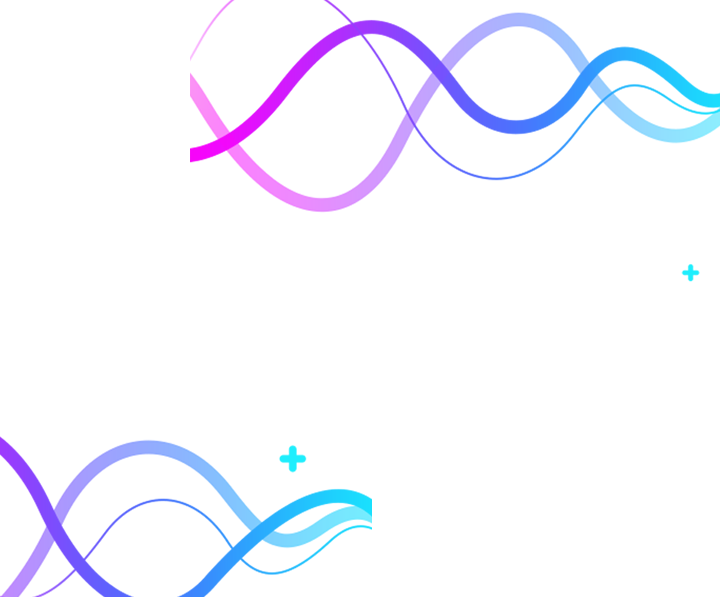
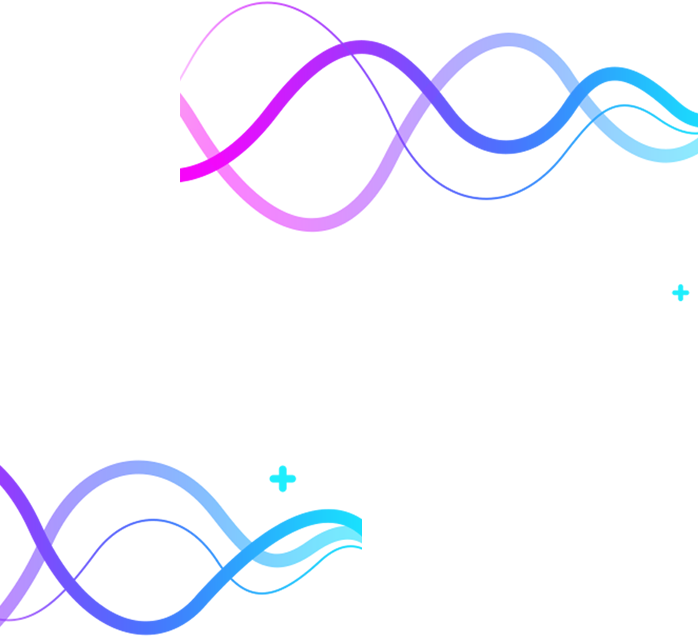
sdkj

diff --git a/css/index.css b/css/index.css
@@ -61,17 +61,18 @@ header p{
 .cont1{
 	text-align: center;
 	overflow: hidden;
-	background: url(../image/cont1_bg.png) no-repeat center 3.375rem;
+	background: url(../image/cont1_bg.png) no-repeat center 3.7rem;
 	background-size: 18.0rem 14.925rem;
+	height: 19.25rem;
 }
 .tt_p{
 	font-size: 0.825rem;
 	font-weight: bold;
 	color: #f73157;
-	margin-top: 0.9rem;
+	margin-top: 0.625rem;
 }
 .tt_h{
-	font-size: 1.0rem;
+	font-size: 1rem;
 	color: #5d70dd;
 	margin-top: 0.55rem;
 }
@@ -87,7 +88,7 @@ header p{
 }
 .cont1_cc{
 	width: 17.25rem;
-	height: 13.5rem;
+	height: 13rem;
 	border: 0.05rem solid #5d70dd;
 	margin: 0 auto;
 	border-radius: 0.1rem;
@@ -97,8 +98,8 @@ header p{
 	text-align: left;
 	font-size: 0.6rem;
 	width: 16.6rem;
-	height: 2.25rem;
-	line-height: 2.25rem;
+	height: 2.2rem;
+	line-height: 2.2rem;
 	background: url(../image/cont1_l.png) no-repeat 95% center;
 	background-size: 1.55rem 1.55rem;
 	padding-left: 0.75rem;
@@ -138,6 +139,7 @@ header p{
 .cont2_cc{
 	width: 18.0rem;
 	background: #fbfbfb;
+	overflow: hidden;
 }
 .cont2_cc p{
 	width: 17.0rem;
@@ -335,6 +337,10 @@ header p{
 .cont4{
 	overflow: hidden;
 	text-align: center;
+	height: 15.75rem
+}
+.tt_px{
+	margin-top: 1.0rem;
 }
 .cont4_cc{
 	position: relative;
@@ -457,7 +463,8 @@ th{
 .cont6{
 	overflow: hidden;
 	text-align: center;
-	background: url(../image/cont6_bg.png) no-repeat center 2.5rem;
+	background: url(../image/cont6_bg.png) no-repeat center 2.25rem;
+	height: 17.75rem;
 	background-size: 18.0rem 13.25rem;
 }
 .cont6 .cont6_cc{

diff --git a/css/index_max.css b/css/index_max.css
@@ -103,18 +103,19 @@ header p{
 .cont1{
 	text-align: center;
 	overflow: hidden;
-	background: url(../image/cont1_bg.png) no-repeat center 135px;
+	background: url(../image/cont1_bg.png) no-repeat center 128px;
+	height: 770px;
 }
 .tt_p{
 	font-size: 33px;
 	font-weight: bold;
 	color: #f73157;
-	margin-top: 36px;
+	margin-top: 25px;
 }
 .tt_h{
 	font-size: 38px;
 	color: #5d70dd;
-	margin-top: 22px;
+	margin-top: 10px;
 }
 .tt_h span{
 	font-size: 40px;
@@ -159,6 +160,7 @@ header p{
 .cont2{
 	overflow: hidden;
 	text-align: center;
+	height: 2940px;
 }
 .cont2_tt{
 	width: 720px;
@@ -372,6 +374,10 @@ header p{
 .cont4{
 	overflow: hidden;
 	text-align: center;
+	height: 630px;
+}
+.tt_px{
+	margin-top: 40px;
 }
 .cont4_cc{
 	position: relative;
@@ -494,7 +500,8 @@ th{
 .cont6{
 	overflow: hidden;
 	text-align: center;
-	background: url(../image/cont6_bg.png) no-repeat center 100px;
+	background: url(../image/cont6_bg.png) no-repeat center 90px;
+	height: 710px;
 }
 .cont6 .cont6_cc{
 	width: 700px;
@@ -545,8 +552,8 @@ th{
 .cont7{
 	overflow: hidden;
 	text-align: center;
-	background: url(../image/cont7_bg.png) no-repeat center 0;
-	height: 596px;
+	background: url(../image/cont7_bg.png) no-repeat center -29px;
+	height: 575px;
 }
 .cont7 img{
 	margin-bottom: 18px;
@@ -597,7 +604,6 @@ th{
 	padding: 0!important;
 
 }
-.bdsharebuttonbox .bdshare-button-style0-16 a,{
+.bdshare-button-style0-16 a, .bdshare-button-style0-16 .bds_more{
 	background-image: none!important;
-	
 }

diff --git a/index.html b/index.html
@@ -50,7 +50,7 @@
 	<!-- cont2 -->
 	<div class="cont2">
 		<p class="tt_p">半年魔鬼集训营</p>
-		<h1 class="tt_h"><span>150天,</span>你的学习目标和内容我们已制定好</h1>
+		<h1 class="tt_h"><span>150天,</span>你的学习目标和内容我们已定制好</h1>
 		<div class="tt_jg"></div>
 		<div class="cont2_tt cont2_tt1">
 			<h2>考研英语目标分数</h2>
